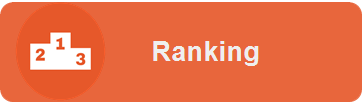
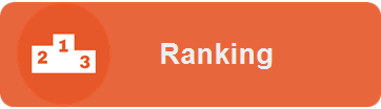
Fixing button's display on small screens

diff --git a/app/assets/stylesheets/style.css.scss b/app/assets/stylesheets/style.css.scss
@@ -39,6 +39,7 @@ table.ranking {
 div.alert {
   box-shadow: 0px 0px 10px 1px rgba(0, 0, 0, 0.5);
   width: 101.4%;
+  margin-top: 1em;
 }
 
 .content {
@@ -53,6 +54,7 @@ div.alert {
 
 .main-content {
   padding-left: 2em;
+  padding-top: 1em;
   min-height: 42.3em;
 }
 
@@ -147,8 +149,20 @@ input {
 /****** questions *******/
 
 p.question {
-  font-size: 1.4em;
+  font-size: 1.2em;
   text-align: left;
+}
+
+p.question-text {
+  font-size: 1.2em;
+  text-align: left;
+  text-indent: 2em;
+}
+
+p.question-text-reference {
+  font-size: 0.8em;
+  text-decoration: italic;
+  text-align: right;
 }
 
 form .alternative input[type="radio"] {
@@ -225,4 +239,34 @@ form input#answer-btn {
     background: white;
     cursor: inherit;
     display: block;
+}
+
+.user-options,
+.upload-forms-container {
+  display: inline-block
+}
+
+.options-container,
+.content-container {
+  text-align: center;
+}
+
+.content-container {
+  margin-top: 4em;
+}
+
+.custom-img {
+  margin-bottom: 1.2em;
+}
+
+.question-img {
+  margin: auto;
+}
+
+.question-index p {
+  font-weight: 700;
+}
+
+.align-center {
+  text-align: center;
 }
